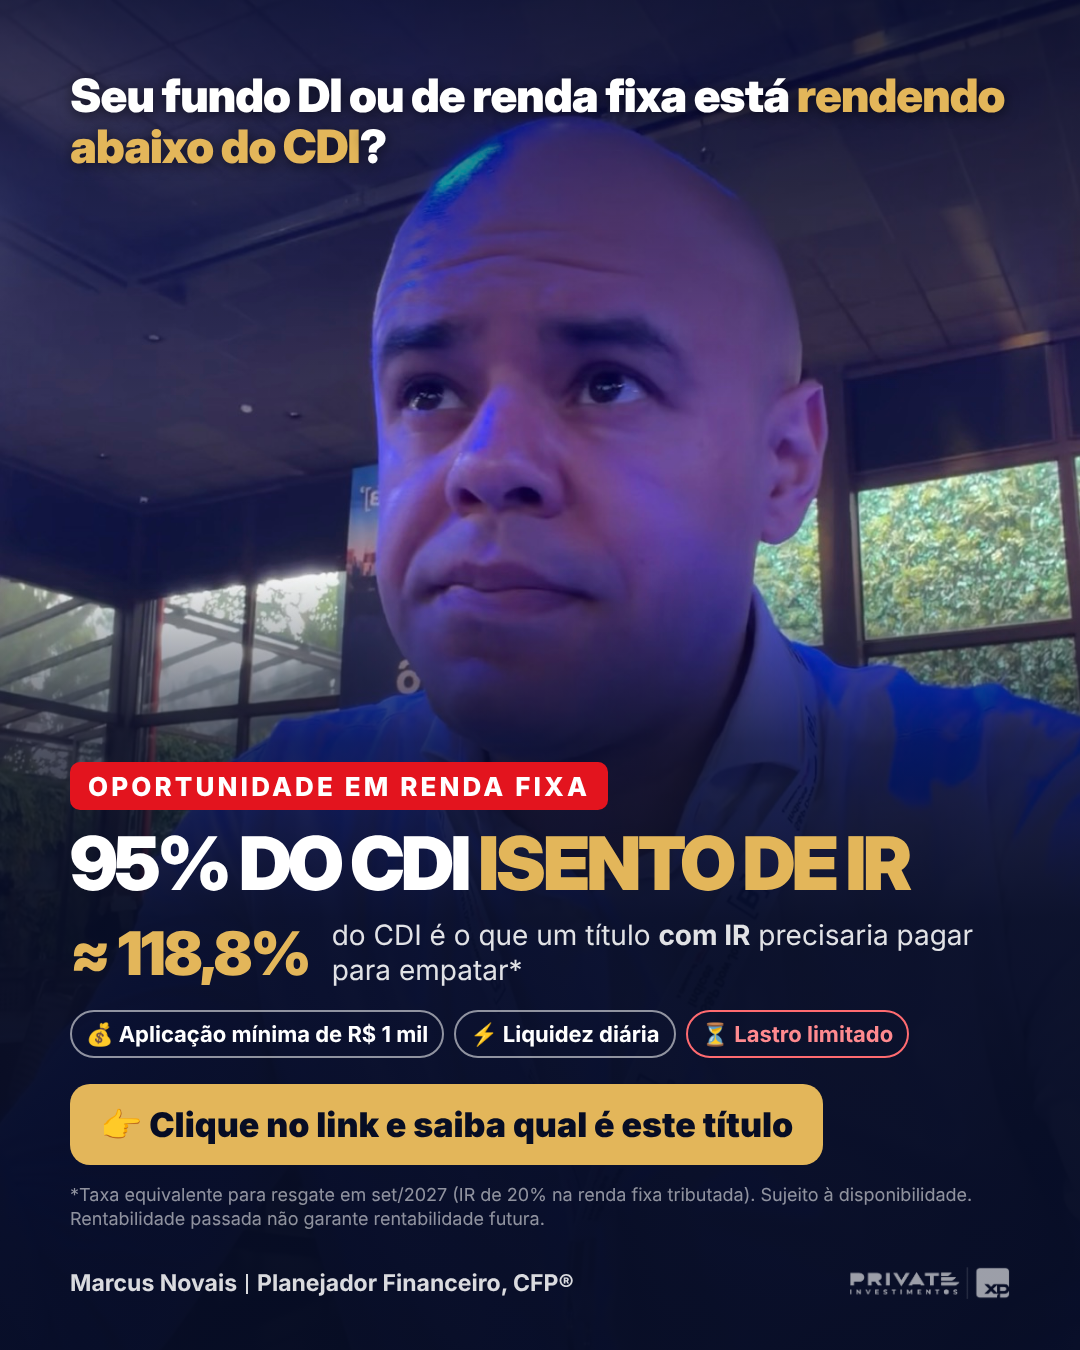
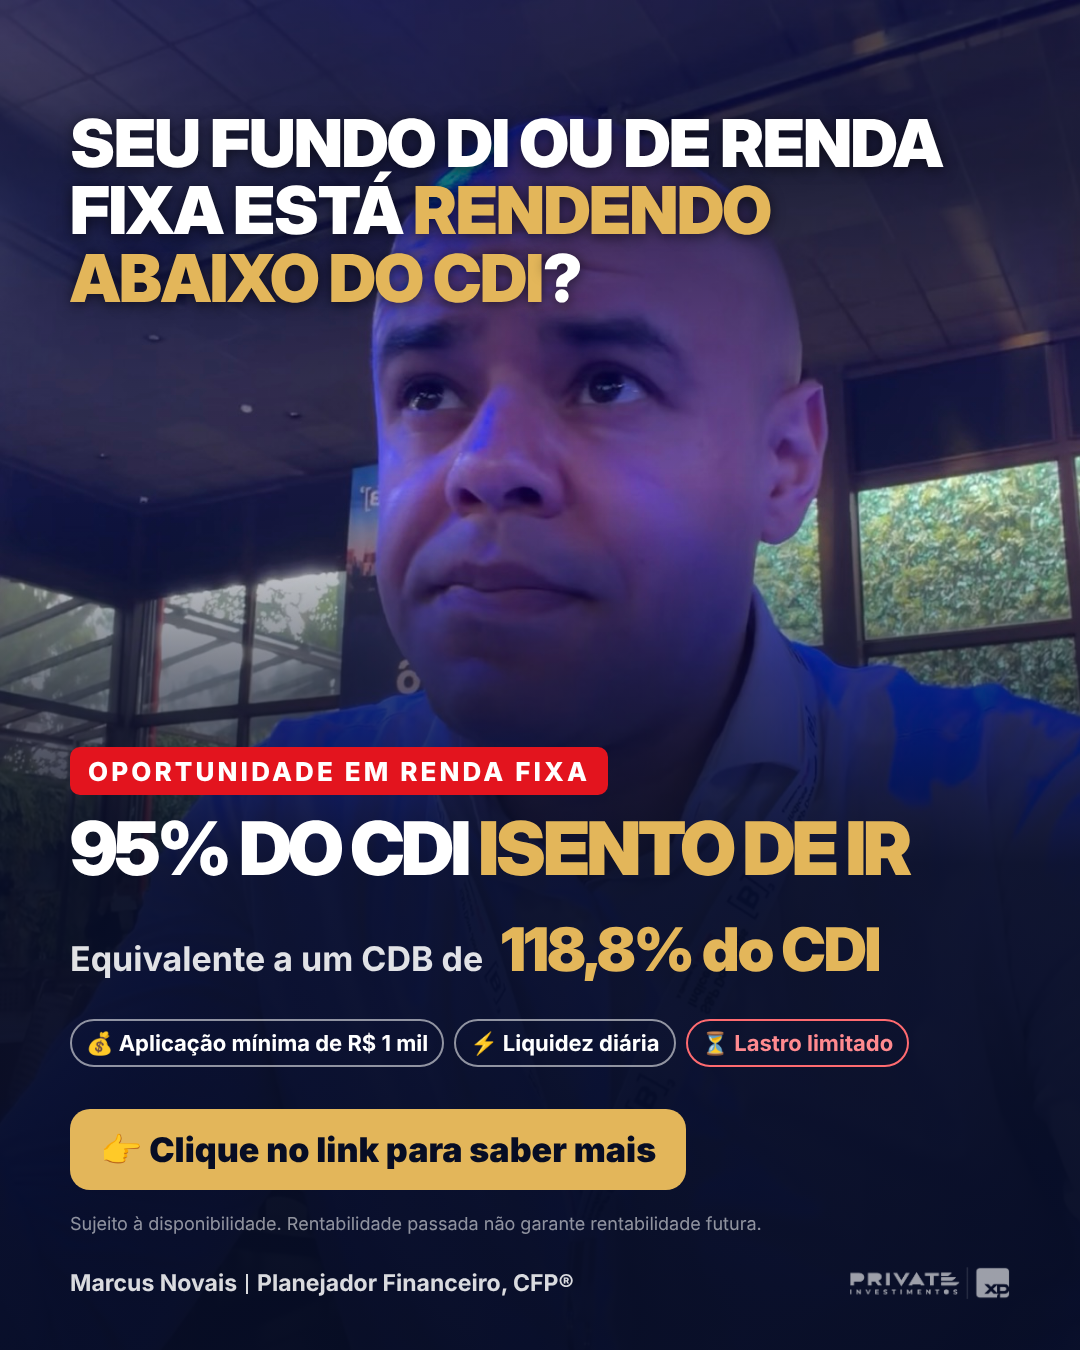
Post 95% CDI isento: título maior, texto mais distribuído, CTA e equivalência ajustados
Claude-Session: https://claude.ai/code/session_01JkBXj6tz5hpSkGAznkwYEm

Changed region(s): [[0.0, 0.4044, 0.8861, 0.9333], [0.0611, 0.0622, 0.9472, 0.2489], [0.6111, 0.3733, 1.0, 0.4978]]

diff --git a/post-isento-95cdi/post.html b/post-isento-95cdi/post.html
@@ -7,22 +7,22 @@
   .p.st { height:1920px; }
   body.single .p { display:none; } body.single .p.on { display:block; }
   .bg { position:absolute; inset:0; } .bg img { width:100%; height:100%; object-fit:cover; object-position:50% 22%; }
-  .sh { position:absolute; inset:0; background:linear-gradient(180deg, rgba(7,13,36,.75) 0%, rgba(7,13,36,.35) 18%, rgba(7,13,36,0) 30%, rgba(7,13,36,0) 42%, rgba(7,13,36,.7) 55%, rgba(7,13,36,.93) 68%, rgba(7,13,36,.97) 100%); }
+  .sh { position:absolute; inset:0; background:linear-gradient(180deg, rgba(7,13,36,.55) 0%, rgba(7,13,36,.6) 12%, rgba(7,13,36,.15) 28%, rgba(7,13,36,0) 36%, rgba(7,13,36,.55) 50%, rgba(7,13,36,.9) 64%, rgba(7,13,36,.96) 100%); }
   .top { position:absolute; left:70px; right:70px; }
-  .hook { font-family:"Inter Display","Inter",sans-serif; font-weight:900; font-size:46px; line-height:1.1; letter-spacing:-.02em; text-shadow:0 2px 14px rgba(0,0,0,.6); }
+  .hook { font-family:"Inter Display","Inter",sans-serif; font-weight:900; text-transform:uppercase; font-size:66px; line-height:1.02; letter-spacing:-.02em; text-shadow:0 2px 14px rgba(0,0,0,.6); }
   .hook em { font-style:normal; color:#e3b65a; }
   .bot { position:absolute; left:70px; right:70px; }
   .pill { display:inline-block; background:#e3141e; color:#fff; font-weight:800; font-size:26px; letter-spacing:.12em; text-transform:uppercase; padding:9px 18px 8px; border-radius:10px; }
   h1 { font-family:"Inter Display","Inter",sans-serif; font-weight:900; text-transform:uppercase; font-size:74px; line-height:1; letter-spacing:-.045em; margin-top:16px; white-space:nowrap; }
   h1 em { font-style:normal; color:#e3b65a; }
-  .eq { display:flex; align-items:center; gap:22px; margin-top:18px; }
+  .eq { display:flex; align-items:baseline; gap:18px; margin-top:34px; }
   .eq .v { white-space:nowrap; font-family:"Inter Display","Inter",sans-serif; font-weight:900; font-size:60px; color:#e3b65a; letter-spacing:-.03em; line-height:1; }
-  .eq .t { font-size:28px; line-height:1.25; color:rgba(255,255,255,.88); }
-  .chips { display:flex; gap:10px; margin-top:22px; flex-wrap:nowrap; }
+  .eq .t { font-size:34px; font-weight:700; line-height:1.25; color:rgba(255,255,255,.88); }
+  .chips { display:flex; gap:10px; margin-top:38px; flex-wrap:nowrap; }
   .chips span { white-space:nowrap; border:2px solid rgba(255,255,255,.55); border-radius:40px; padding:9px 14px; font-size:22px; font-weight:700; }
   .chips span.r { border-color:#ff6b70; color:#ff8a8f; }
-  .btn { display:inline-block; margin-top:26px; background:#e3b65a; color:#070d24; font-weight:900; font-size:34px; padding:20px 30px; border-radius:20px; }
-  .fine { font-size:18px; line-height:1.3; color:rgba(255,255,255,.55); margin-top:18px; }
+  .btn { display:inline-block; margin-top:42px; background:#e3b65a; color:#070d24; font-weight:900; font-size:34px; padding:20px 30px; border-radius:20px; }
+  .fine { font-size:18px; line-height:1.3; color:rgba(255,255,255,.55); margin-top:22px; }
   .foot { position:absolute; left:70px; right:70px; display:flex; justify-content:space-between; align-items:center; font-size:23px; font-weight:700; color:rgba(255,255,255,.85); }
   .foot span { display:inline-block; width:2px; height:20px; background:rgba(255,255,255,.85); margin:0 9px -3px; }
   .foot img { height:34px; opacity:.6; filter:brightness(0) invert(1); }
@@ -33,12 +33,12 @@ const body=(top,bot,foot)=>`<div class="bg"><img src="marcus.jpg"></div><div cla
  <div class="top" style="top:${top}px"><div class="hook">Seu fundo DI ou de renda fixa está <em>rendendo abaixo do CDI</em>?</div></div>
  <div class="bot" style="bottom:${bot}px"><div class="pill">Oportunidade em renda fixa</div>
   <h1>95% do CDI <em>isento de IR</em></h1>
-  <div class="eq"><div class="v">≈ 118,8%</div><div class="t">do CDI é o que um título <b>com IR</b> precisaria pagar para empatar*</div></div>
+  <div class="eq"><div class="t">Equivalente a um CDB de</div><div class="v">118,8% do CDI</div></div>
   <div class="chips"><span>💰 Aplicação mínima de R$ 1 mil</span><span>⚡ Liquidez diária</span><span class="r">⏳ Lastro limitado</span></div>
-  <div class="btn">👉 Clique no link e saiba qual é este título</div>
-  <div class="fine">*Taxa equivalente para resgate em set/2027 (IR de 20% na renda fixa tributada). Sujeito à disponibilidade. Rentabilidade passada não garante rentabilidade futura.</div></div>
+  <div class="btn">👉 Clique no link para saber mais</div>
+  <div class="fine">Sujeito à disponibilidade. Rentabilidade passada não garante rentabilidade futura.</div></div>
  <div class="foot" style="bottom:${foot}px"><div>Marcus Novais<span></span>Planejador Financeiro, CFP®</div><img src="logo-private-xp.png"></div>`;
-for (const [cls,top,bot,foot] of [['p',70,120,50],['p st',260,330,250]]) { const s=document.createElement('section'); s.className=cls; s.innerHTML=body(top,bot,foot); document.body.appendChild(s); }
+for (const [cls,top,bot,foot] of [['p',110,115,50],['p st',300,330,250]]) { const s=document.createElement('section'); s.className=cls; s.innerHTML=body(top,bot,foot); document.body.appendChild(s); }
 const all=[...document.querySelectorAll('.p')];
 window.show=i=>{document.body.classList.add('single');all.forEach((s,j)=>s.classList.toggle('on',j===i));};
 </script>
